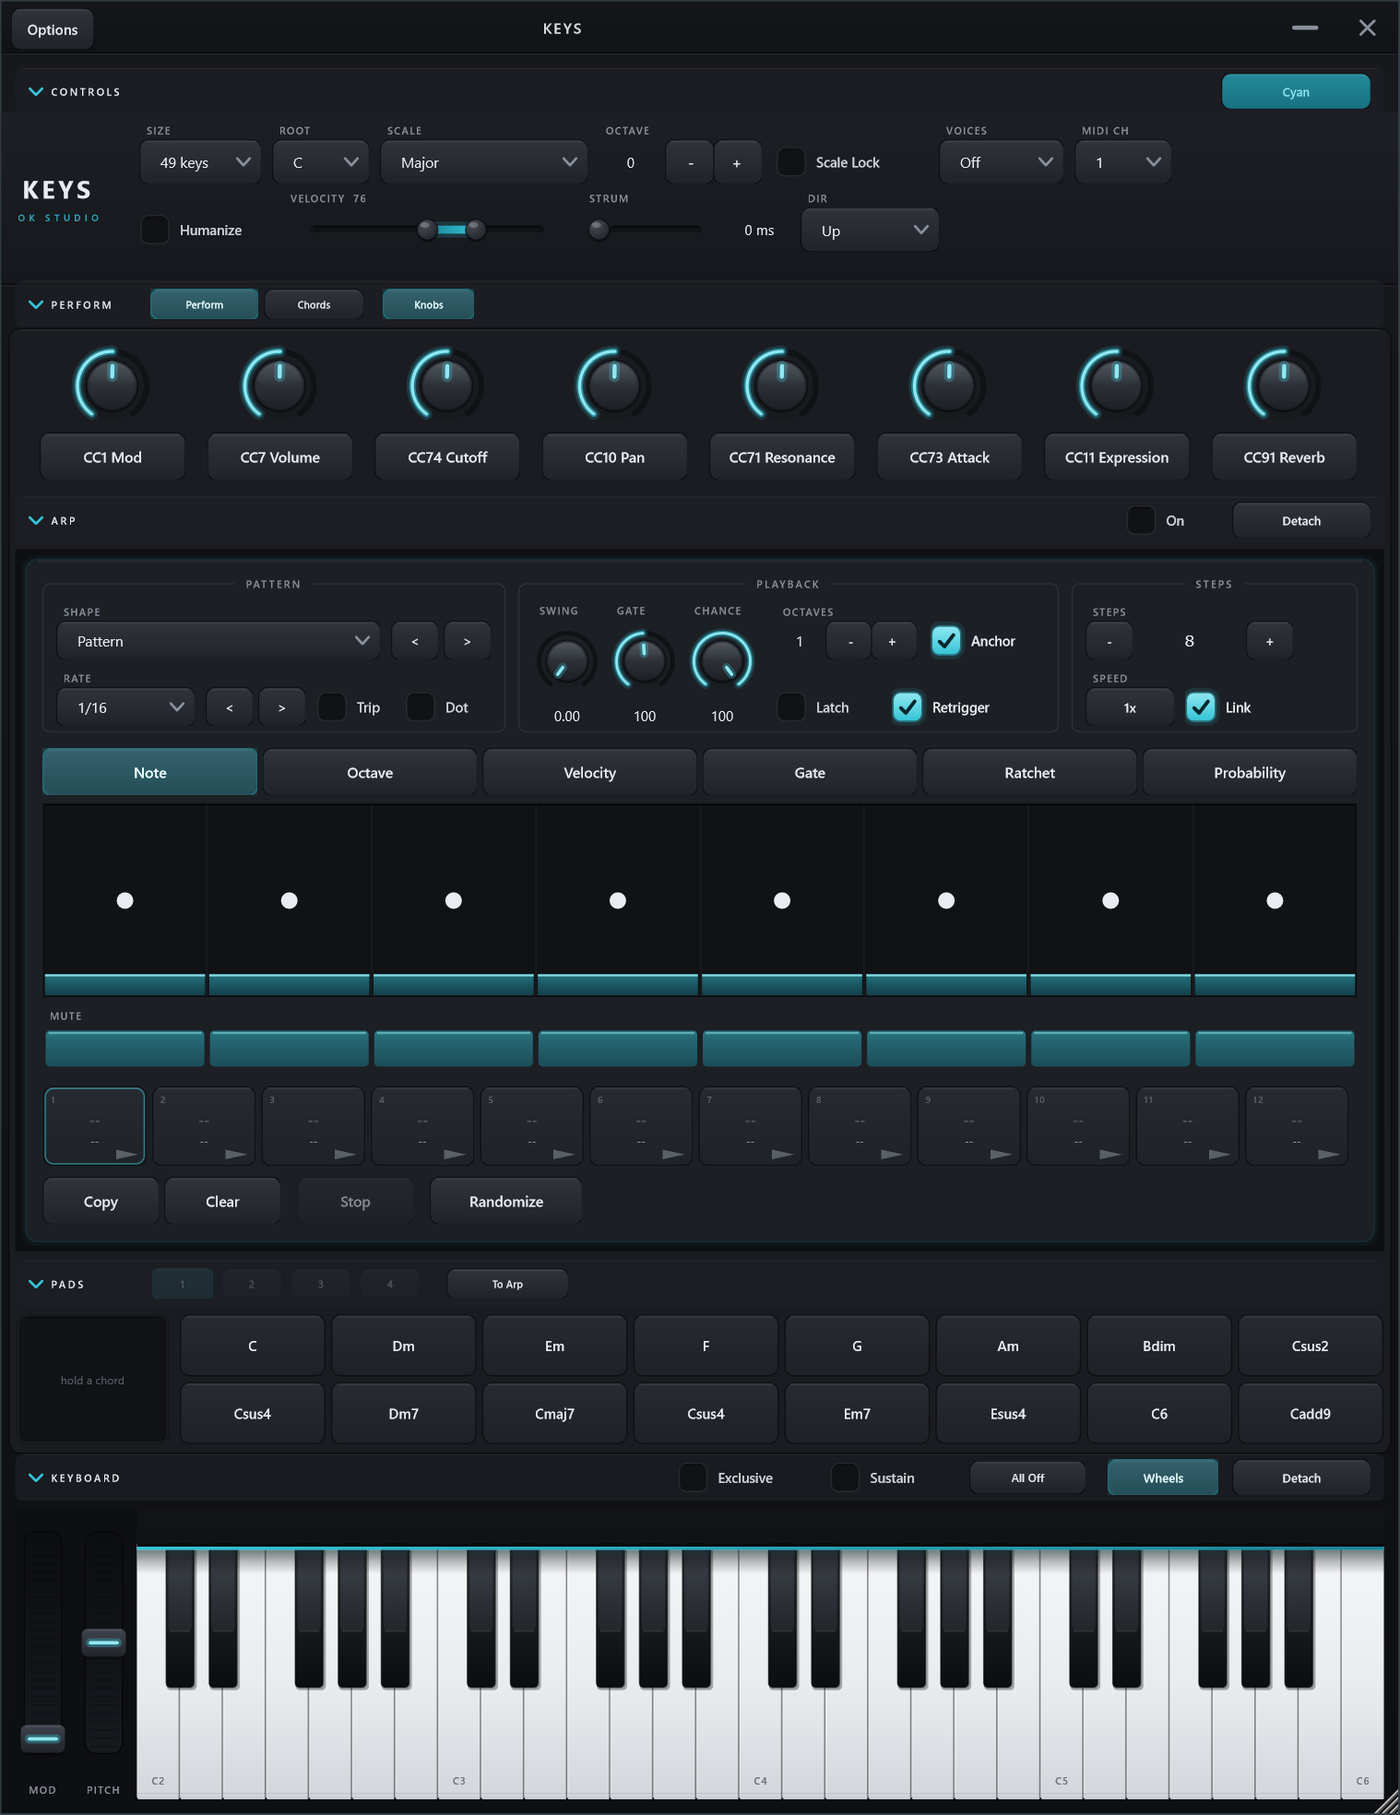
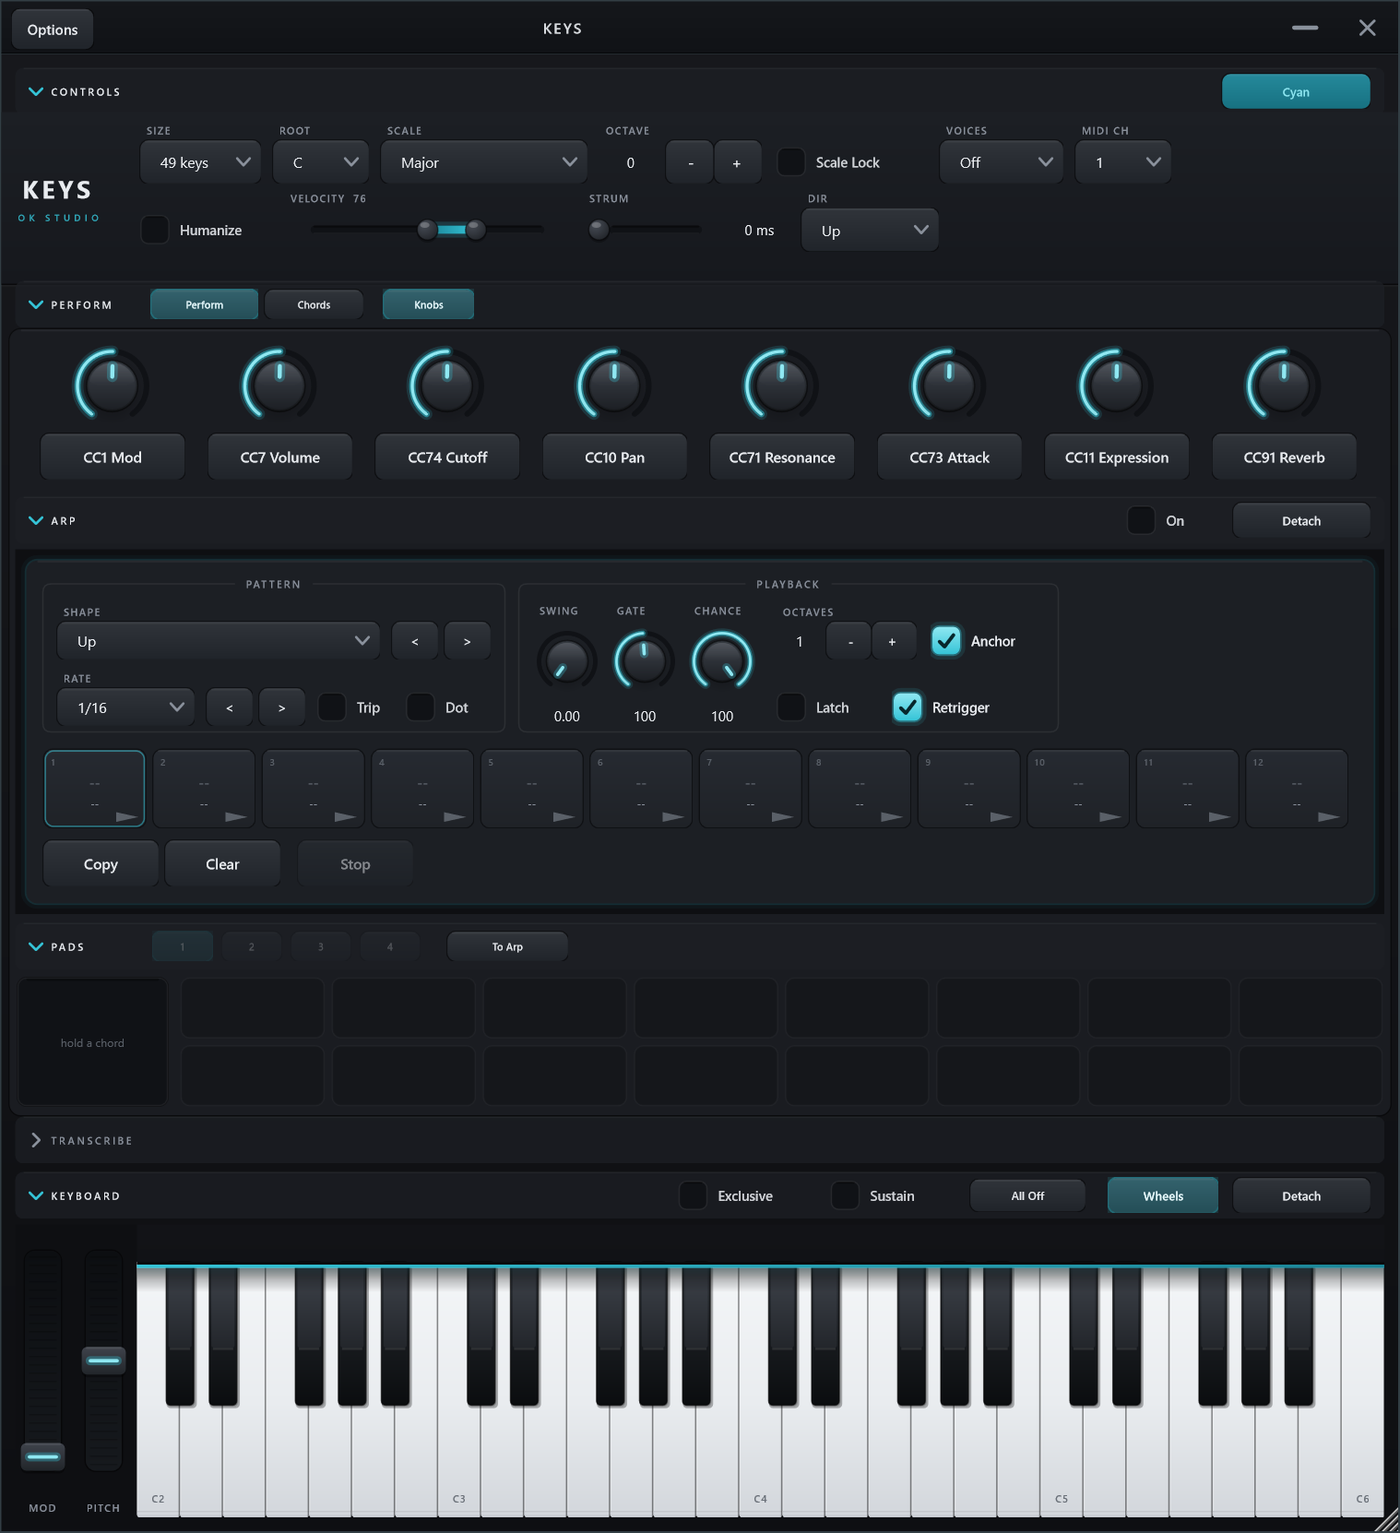
docs: sweep the docs and screenshots against the Transcribe branch
Every section list in the docs recited Controls, centre, Arp, Pads, Keyboard,
which is now missing one. README, CONTROLS, ARCHITECTURE, KEYS_HOST_DESIGN and
CLAUDE all name Transcribe in its place between the pads and the keybed.

New prose where the section needed explaining rather than listing: how to use it
(README, CONTROLS), how it hangs together and why the panel is built and
destroyed with its fold (ARCHITECTURE), and what turning it on costs the build
(BUILD, CLAUDE). The two facts worth repeating in each place are that Keys is an
instrument and so has no track audio to record, which is why it opens a device
of its own, and that transcription is not live and cannot be made live.

BUILD gains a section on the transcription dependency, because deleting build/
is not free any more: a fresh tree re-downloads a multi-gigabyte ONNX Runtime,
and the static MSVC runtime it forces means flipping KEYS_TRANSCRIBE is a full
rebuild. Both are properties of the prebuilt library rather than choices, and
-DKEYS_TRANSCRIBE=OFF avoids both.

Screenshots: keys.png, chord-generator.png and arpeggiator.png were all shot
before the Transcribe bar existed, so they are recaptured, and transcribe.png is
new. Captured through PrintWindow with the section folds set through UI
Automation, so nothing had to take the foreground or move the cursor.

Two shots are knowingly left stale: arpeggiator-shape.png needs a shape chosen
[…]

diff --git a/docs/ARCHITECTURE.md b/docs/ARCHITECTURE.md
@@ -19,6 +19,8 @@ src/
 ├── MarkovData.h              # the bundled progression corpus ChordMarkov walks
 ├── ArpEngine.h               # pure arpeggiator core, unit-tested; the one playhead
 │                             # reader in Keys (docs/ARP_DESIGN.md)
+├── AudioCapture.{h,cpp}      # records from an audio input Keys opens itself, for the
+│                             # Transcribe section. Built only with KEYS_TRANSCRIBE
 ├── ui/
 │   ├── NoteSurface.{h,cpp}   # shared note bookkeeping every playable surface derives
 │   ├── PianoKeyboard.{h,cpp} # the piano surface (geometry + paint over NoteSurface);
@@ -29,6 +31,8 @@ src/
 │   ├── ChordGenPanel.{h,cpp} # the chord generator centre view (algorithmic + Markov)
 │   ├── ArpPanel.{h,cpp}      # the arp section: Shape gates a tabbed lane editor,
 │   │                         # plus the control band and twelve launchable slots
+│   ├── TranscribePanel.{h,cpp} # the Transcribe section: input picker, waveform, piano
+│   │                         # roll of the transcribed notes, MIDI drag-out
 │   ├── SectionBar.h          # the fold/unfold header above a section of the editor
 │   ├── RangeSlider.h         # two-value slider whose band drags as one (velocity range)
 │   ├── DetachedWindow.h      # a section popped out into its own resizable window
@@ -41,6 +45,35 @@ src/
     └── KeysMcp.{h,cpp}       # MCP tool registrations; every handler runs on the
                               # message thread (docs/MCP.md)
 ```
+
+## Transcription
+
+The Transcribe section records audio and turns it into notes. Three pieces, in a deliberate
+order:
+
+- **`AudioCapture`** owns a `juce::AudioDeviceManager` of its own and records to one
+  preallocated mono buffer. Keys is an instrument: hosts send it MIDI and never audio, so
+  there is no track input to record and opening a device directly is the only way in. That
+  it is *our* device, not the host's, is what makes the section behave identically in the
+  plugin and in the standalone, and it means choosing an input never touches the host's
+  setup. The buffer is preallocated because the alternative is allocating on the device
+  thread; recording stops itself at `AudioCapture::maxSeconds` rather than growing forever.
+- **`okstudio::transcribe::Transcriber`** (the kit, `okstudio/Transcribe.h`) is the engine:
+  basic-pitch, ported from NeuralNote. It lives in the kit because Undertow, Beatform and
+  Contour would all have use for it. See the kit's `docs/TRANSCRIPTION.md`.
+- **`TranscribePanel`** is the UI, and owns the threading. The model runs for a good
+  fraction of the recording's length, so it runs on a `juce::Thread` and posts its notes
+  back with `MessageManager::callAsync`; the keyboard keeps playing throughout. Moving the
+  Sensitivity slider calls `retranscribe()`, which reruns only the note-event stage and is
+  cheap enough to follow the slider live.
+
+None of this touches the audio thread that `processBlock` runs on. The capture callback is a
+*different* device's thread, and writes only to its own buffer.
+
+The whole thing is behind `KEYS_TRANSCRIBE`, on by default. Off, `AudioCapture` and
+`TranscribePanel` are not compiled, the section reports zero height, and the kit's engine is
+never built — which also drops a multi-gigabyte ONNX Runtime download and the static MSVC
+runtime it forces on the binary.
 
 ## Threading: UI → audio note path
 
@@ -220,10 +253,17 @@ All these headers are pure logic with no UI, so they unit-test like `NoteMath.h`
 
 The editor is a stack of sections, each of which folds away so the window can be squeezed
 small when the screen is busy: **Controls** (the three header rows), the **centre view**,
-the **Arp**, the **Pads**, and the **Keyboard** (with the wheels as a sub-fold).
+the **Arp**, the **Pads**, **Transcribe**, and the **Keyboard** (with the wheels as a
+sub-fold).
 `SectionBar` is the affordance — a `juce::Button` so the mouse-only contract and the
 accessible name come for free, with the section's own small controls laid out as its
 siblings in `contentArea()`.
+
+**Transcribe** is the odd one out: it is the only part of Keys that consumes audio rather
+than producing MIDI, and the only section whose panel owns a device. Like the arp's, its
+panel is built when the section opens and destroyed when it folds — it holds an open audio
+input and a neural network's weights, neither worth keeping warm behind a folded bar. See
+"Transcription" below.
 
 The middle of the editor is a *view*, not a stack of overlays. `Perform` is the knob bank
 and `Chords` swaps `ChordGenPanel` into the same slot, with both tabs riding on the centre's

diff --git a/README.md b/README.md
@@ -32,9 +32,9 @@ Built with **JUCE 8** and **CMake**, on the shared
 The hex-grid sibling, **Hex Host**, moved out to its own repo: [`../Hex`](../Hex).
 
 One view, no tabs: header controls, a centre view (the eight knobs, or the chord
-generator), then the arpeggiator, the chord pads, and the playing surface. Every section
-folds away so the window can be squeezed small, and the keyboard and the arpeggiator each
-detach into a resizable window of their own.
+generator), then the arpeggiator, the chord pads, the transcriber, and the playing surface.
+Every section folds away so the window can be squeezed small, and the keyboard and the
+arpeggiator each detach into a resizable window of their own.
 
 ![Keys](assets/screenshots/keys.png)
 
@@ -51,6 +51,7 @@ detach into a resizable window of their own.
 | **Knob row** | Eight rotary CC knobs above the keyboard, each with a one-click reassign button (see Controls below) |
 | **Chord pads** | Build a chord, drag the live card onto a pad to capture it, then press the pad beat-pad style to play it (Sustain holds it). Drag a pad back onto the card to bring its notes up for editing |
 | **Chords** | Open the generator: fill a page of pads for a key and mode, or ask what chord could come next |
+| **Transcribe** | Record yourself singing or playing, and get the notes back as MIDI you can drag onto a track |
 | **All Off** | Stop every note on every channel gently: per-note offs plus CC123, so notes end through their release envelopes instead of being choked |
 
 No gesture beyond a click, a drag, or a scroll is ever required. Sustain is an on-screen
@@ -108,6 +109,38 @@ Press any chord in the grid to hear it. The page-wide actions are on-screen butt
 Page, Regen Unlocked, Clear Page. Lock, New and Next act on one card, so they live in that
 card's right-click menu.
 
+## Transcribing what you play
+
+**Transcribe** is the one place Keys listens instead of playing. Pick an audio input, hit
+**Record**, sing or play something, hit **Stop**, and the notes appear in a piano roll.
+Drag them from **DRAG MIDI** onto a track in your DAW and you have a MIDI file of what you
+just did.
+
+![Transcribe](assets/screenshots/transcribe.png)
+
+| Control | What it does |
+|---------|--------------|
+| **Driver** + **Input** | Which audio input to record from: a microphone, an interface, anything Windows lists. Remembered per machine, not per song |
+| **Record** / **Stop** | Record, then transcribe. The level meter beside the input shows signal arriving, so you can check the mic works before committing to a take |
+| **Sensitivity** | Higher finds more notes. It re-reads the same recording rather than running the model again, so it responds immediately |
+| **DRAG MIDI** | Drag onto a track to drop the notes there as a MIDI file |
+| **Clear** | Throw away the recording and the notes |
+
+Keys is an instrument, so your DAW sends it MIDI and never audio: there is no track input to
+record. The section opens an audio input itself, which is why it works the same in the plugin
+and in the standalone app, and why choosing an input here never disturbs your DAW's own audio
+settings. The input is only open while the section is showing or while you are recording, so
+Keys never sits on your microphone in the background.
+
+It is not live, and cannot be. The model needs the whole recording before it can work out
+where a note started, so takes under about a second produce nothing, and recording stops
+itself after two minutes. Transcription runs in the background, so the keyboard keeps playing
+while it thinks.
+
+The engine is Spotify's [basic-pitch](https://github.com/spotify/basic-pitch), ported from
+[NeuralNote](https://github.com/DamRsn/NeuralNote) by Damien Ronssin and Tibor Vass
+(Apache-2.0) and shared through the kit, so the other OK Studio plugins can use it too.
+
 ## Driving it with Claude
 
 Keys embeds an MCP server, so Claude Code (or any local MCP client) can set
@@ -135,6 +168,11 @@ DAWs look automatically (`C:\Program Files\Common Files\VST3`). Or build from so
 
 Requires CMake 3.22+, Visual Studio 2022, a JUCE 8 checkout at `../JUCE`, and the
 kit at `../okstudio-juce-kit`.
+
+The Transcribe section downloads a large prebuilt ONNX Runtime the first time you configure,
+and forces the static MSVC runtime on the whole binary; both come with the transcription
+engine rather than being choices. `-DKEYS_TRANSCRIBE=OFF` builds without the section and
+without either cost.
 
 ```powershell
 ./build.ps1                 # VST3 -> %USERPROFILE%\Ableton\vst3

diff --git a/docs/CONTROLS.md b/docs/CONTROLS.md
@@ -38,6 +38,7 @@ dragged smaller than the content it is showing.
 | **Perform / Chords** | middle | Whichever centre view is showing. Both tabs stay visible while it is folded, so picking one both unfolds and switches. **Knobs** folds the knob bank inside Perform. |
 | **Arp** | below the centre | The arpeggiator. Its **On** toggle and **Detach** ride on the bar, so the arp can be switched on, off and detached with the panel folded shut — folding it puts the editor away, never the arpeggiator. It starts folded, because open it is the tallest thing here. |
 | **Pads** | below the arp | The chord-pad strip, on screen under either centre view — so a chord stays reachable while you edit the generator or the arp. Its page buttons and the **To Arp** toggle ride on the bar. |
+| **Transcribe** | below the pads | Audio to MIDI: the input picker, the waveform, the piano roll and the MIDI drag handle. It starts folded, like the arp, because open it is tall. Folding it also closes the audio input, so Keys is not holding your microphone while it is shut. |
 | **Keyboard** | above the keys | The keybed. **Wheels** folds the mod and pitch wheels; Exclusive, Sustain and All Off stay put. |
 
 ### Detaching the keyboard, and the arp
@@ -52,6 +53,31 @@ The **Arp** bar has a Detach of its own, and it works the same way: the arpeggia
 into a resizable window, its close button re-docks it, and its position is remembered. A
 detached section takes no height in the main window, so this is the way to keep the
 arpeggiator open and the plugin window small at the same time.
+
+## Transcribe
+
+The one section that listens rather than plays. Record something, and Keys works out what
+notes you sang or played.
+
+| Control | Gesture | What it does |
+|---------|---------|--------------|
+| **Driver** | click | Which audio driver to list inputs from — Windows Audio, ASIO, DirectSound |
+| **Input** | click | The input to record from. Remembered per machine, not saved in the song, because it describes your desk rather than your track |
+| *(level meter)* | — | Between the input and the buttons. Shows signal arriving, so you can see the mic is working before you record |
+| **Record** / **Stop** | click | Start recording; click again to stop and transcribe. Recording stops itself after two minutes |
+| **Clear** | click | Throw away the recording and the notes |
+| **DRAG MIDI** | **drag** | Drag onto a DAW track to drop the notes there as a MIDI file. The one control here that is a drag rather than a click, because an external file drag has no click equivalent |
+| **Sensitivity** | drag | Higher finds more notes. It re-reads the same recording rather than running the model again, so it answers immediately |
+
+The waveform strip shows what was recorded; the piano roll below it shows the notes that
+came out, laid out over the length of the take with the pitches it actually found.
+
+Transcription is not live and cannot be: the model needs the whole recording before it can
+decide where a note began. A take shorter than about a second produces nothing at all. While
+it works, the rest of Keys keeps playing normally.
+
+If the section is greyed out or missing entirely, Keys was built with
+`-DKEYS_TRANSCRIBE=OFF`.
 
 ## Playing surface
 

diff --git a/CLAUDE.md b/CLAUDE.md
@@ -37,6 +37,12 @@ py run.py --no-build   # just relaunch what is already built
 Go to a real Live load test only for what the standalone genuinely cannot show: bus
 layout, plugin classification, installer, updater, host automation.
 
+**The first configure is slow now.** The Transcribe section pulls a multi-gigabyte prebuilt
+ONNX Runtime into the build tree, and forces the static MSVC runtime on the whole binary (both
+are properties of that library, not choices). `-DKEYS_TRANSCRIBE=OFF` drops the section and
+both costs, and is the right flag for work that never touches transcription. Deleting `build/`
+is no longer cheap.
+
 Full build (VST3 + install to the DAW):
 
 ```powershell
@@ -58,7 +64,8 @@ copies the .vst3 to `%USERPROFILE%\Ableton\vst3` (Owen's Ableton custom folder;
 
 Read `docs/ARCHITECTURE.md` first. Load-bearing ideas:
 
-- **Kit-based.** Theme, scales, state persistence, the mouse-only contract, and the
+- **Kit-based.** Theme, scales, state persistence, the mouse-only contract, the audio-to-MIDI
+  transcription engine, and the
   updater all come from `../okstudio-juce-kit`. Fix shared behaviour there, not here.
 - **UI → audio note path is a `juce::MidiMessageCollector`.** The editor/keyboard
   call `processor.noteOn/noteOff` on the message thread; `processBlock` drains the
@@ -85,6 +92,15 @@ Read `docs/ARCHITECTURE.md` first. Load-bearing ideas:
   2026-07-25. The arp bar carries its On toggle and a Detach, both of which survive folding
   the section shut. `DetachedWindow` (was `KeyboardWindow`) serves the keybed and the arp.
   See `docs/ARP_DESIGN.md`.
+- **Transcribe is the only part of Keys that consumes audio.** Everything else produces MIDI.
+  Keys is an instrument, so a host sends it MIDI and never audio: there is no track input, and
+  `AudioCapture` opens an audio device of its own. That is what makes the section behave the
+  same in the plugin and the standalone, and it is why choosing an input never touches the
+  host's audio setup. The device is open only while the section is on screen or recording.
+  The engine is the kit's (`okstudio/Transcribe.h`, basic-pitch ported from NeuralNote); the
+  model runs on a background thread, never on the audio or message thread, and the panel is
+  built and destroyed with its fold because it holds a device and a network's weights. All of
+  it is behind `KEYS_TRANSCRIBE`, on by default. See `docs/ARCHITECTURE.md`.
 - **One note-on per sounding pitch, released by the last owner.** Four sources can ask for
   the same pitch at once (a chord pad, the live card, a chord held into the arp, the
   keybed). `KeysProcessor::noteOn` emits MIDI only on the 0→1 transition of `noteRefs` and

diff --git a/docs/BUILD.md b/docs/BUILD.md
@@ -7,6 +7,8 @@
 - A **JUCE 8** checkout at `../JUCE` (sibling of this repo)
 - The **kit** at `../okstudio-juce-kit` (sibling of this repo)
 - For installers: **Inno Setup 6** (`winget install JRSoftware.InnoSetup`)
+- For the Transcribe section (on by default): a working internet connection the first time
+  you configure, and patience — see below
 
 Layout:
 
@@ -16,6 +18,28 @@ dev/
 ├── okstudio-juce-kit/
 └── Keys/
 ```
+
+## The transcription dependency
+
+The Transcribe section is built on the kit's `okstudio_basicpitch` target, and that brings two
+things with it. Neither is a choice: both are properties of the prebuilt ONNX Runtime the
+engine links, published by the NeuralNote authors because building ONNX Runtime from source is
+its own project.
+
+- **A large download at configure time.** The archive is fetched into the build tree and
+  unpacks to a few gigabytes. It is never committed, and never re-downloaded once it is there,
+  but a fresh build tree pays for it again. Deleting `build/` is not free any more.
+- **The static MSVC runtime.** That library is `/MT`, and MSVC will not link objects that
+  disagree, so `CMAKE_MSVC_RUNTIME_LIBRARY` is set before `add_subdirectory(JUCE)` in the
+  top-level `CMakeLists.txt`. Everything in the binary — JUCE included — is built that way.
+  The upside is one fewer redistributable to worry about; the cost is a slightly larger
+  binary and a full rebuild if you flip the option.
+
+`-DKEYS_TRANSCRIBE=OFF` avoids both, at the cost of the section. Anything that only touches
+the keyboard, the pads, the generator or the arp can be built that way and will configure and
+link much faster from cold.
+
+The engine and its own tests live in the kit; see its `docs/TRANSCRIPTION.md`.
 
 ## Testing a change (run.py)
 
@@ -138,6 +162,7 @@ how to keep it testable) is in
 | `KEYS_BUILD_HOST` | `ON` | build Keys Host (an instrument VST3 hosted inside Keys). Turning this off leaves `run.py`'s default target missing |
 | `KEYS_BUILD_MCP_SHIM` | `ON` | build `keys-mcp.exe`, the stdio bridge (see [MCP.md](MCP.md)) |
 | `KEYS_BUILD_MIDI_EFFECT` | `OFF` | also build Keys FX, the MIDI-effect variant Ableton rejects |
+| `KEYS_TRANSCRIBE` | `ON` | build the Transcribe section. Off drops the section, a multi-gigabyte ONNX Runtime download, and the static-MSVC-runtime requirement below |
 
 ## Troubleshooting
 

diff --git a/docs/KEYS_HOST_DESIGN.md b/docs/KEYS_HOST_DESIGN.md
@@ -173,7 +173,7 @@ nothing in the kit assumes one plugin per repo.
   surfaces and the `uiLayout`-selected Classic/Performer arrangement. The surface is
   picked at compile time now, and the rest of the editor is a stack of foldable sections:
   Controls, a centre view (Perform or Chords, chosen by tabs on the centre bar), Arp,
-  Pads, Keyboard. The keybed and the arp each detach into a window of their own, and every
+  Pads, Transcribe, Keyboard. The keybed and the arp each detach into a window of their own, and every
   fold changes the height Keys Host is asked for. Keys and Keys Host build the piano only;
   the Harmonic Table and Hex Host moved out to their own repo (`../Hex`).
   `surface`/`uiLayout`/`padChannel`/`xyCC*` stay registered for session compatibility
